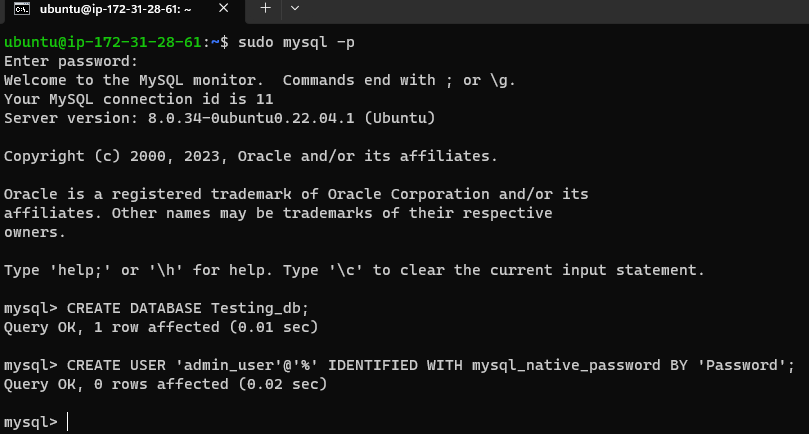
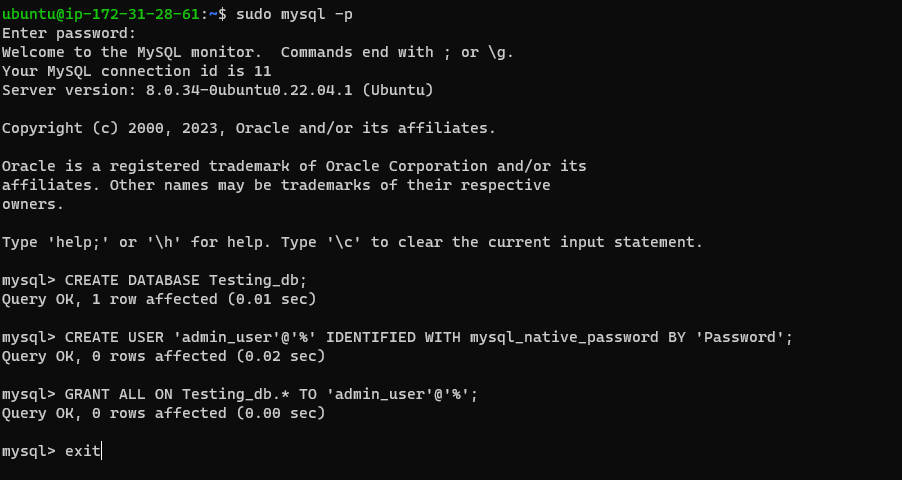
Updated

diff --git a/Client Sever Architecture with MySQL as RDBMS/README.md b/Client Sever Architecture with MySQL as RDBMS/README.md
@@ -115,6 +115,8 @@ Note: **`ALTER USER 'root'@'localhost' IDENTIFIED WITH mysql_native_password BY 
 
 - Then we connect to the MySQL console using the **`sudo mysql -p`** command.
 
+- Lastly, is giving the user permission over the Testing_db database.
+
 - Below are the commands used in creating a Database and a new user to grant full access to the database.
 
 ![Alt text](<Images/database creation.png>)
